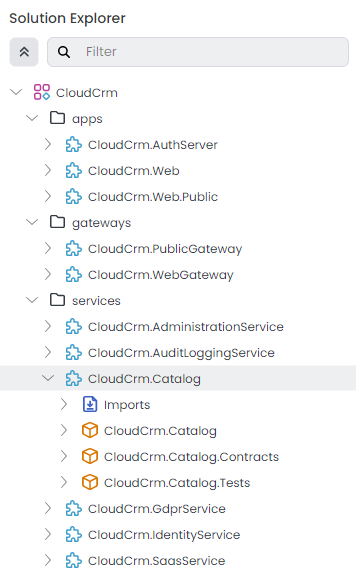
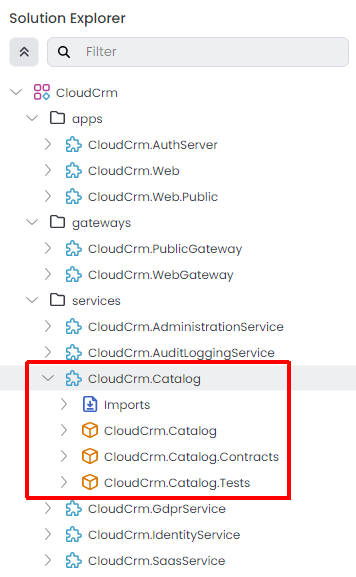
Completed the part 2

Changed region(s): [[0.0618, 0.6239, 0.8343, 0.8735]]

diff --git a/docs/en/tutorials/microservice/part-02.md b/docs/en/tutorials/microservice/part-02.md
@@ -16,7 +16,7 @@
 
 In this tutorial, you will create a new Catalog service and integrate it to the solution.
 
-## Creating the Service
+## Creating the Catalog Service
 
 Right-click the `services` folder in the *Solution Explorer* panel, select the *Add* -> *New Module* -> *Microservice* command:
 
@@ -48,16 +48,66 @@ ABP Studio intelligently selects the right values for you, but you should still 
 
 That's all, ABP Studio creates the new microservice and arranges all the integration and configuration for you.
 
-## Exploring the New Microservice
+## Exploring the New Catalog Microservice
 
-The new microservice is added under the `services` folder in the `CloudCrm` solution:
+In this section, we will investigate the new microservice in overall.
+
+### Understanding the Packages of The Service
+
+The new microservice is added under the `services` folder in the `CloudCrm` ABP Studio solution:
 
 ![abp-studio-new-catalog-service-in-solution-explorer](images/abp-studio-new-catalog-service-in-solution-explorer.png)
 
-The new microservice has its own separate .NET solution that includes three .NET projects:
+The new microservice has its own separate .NET solution that includes three packages (.NET projects):
 
 * `CloudCrm.Catalog` is the main project that you will implement your service. It typically contains your [entities](../../framework/architecture/domain-driven-design/entities.md), [repositories](../../framework/architecture/domain-driven-design/repositories.md), [application services](../../framework/architecture/domain-driven-design/application-services.md), API controllers, etc.
 * `CloudCrm.Catalog.Contracts` project can be shared with the other services and applications. It typically contains interfaces of your [application services](../../framework/architecture/domain-driven-design/application-services.md), [data transfer objects](../../framework/architecture/domain-driven-design/data-transfer-objects.md), and some other types you may want to share with the clients of this microservice.
 * `CloudCrm.Catalog.Tests` is for building your unit and integration tests for this microservice.
 
-f
+### Opening the Service in an IDE
+
+You can open the new microservice in your favorite IDE for development. As a shortcut, you can right-click it in ABP Studio, select the *Open with* -> *Visual Studio* command for example:
+
+![abp-studio-open-with-visual-studio](images/abp-studio-open-with-visual-studio.png)
+
+Here is the `CloudCrm.Catalog` .NET solution in Visual Studio:
+
+![visual-studio-solution-explorer-catalog-service](images/visual-studio-solution-explorer-catalog-service.png)
+
+### Running the New Service
+
+You can run the solution using ABP Studio's *Solution Runner*. It will also run the new Catalog service as a part of the solution.
+
+> Before running the solution, **ensure that all the applications are built**. If you are not sure, right-click the root item (`CloudCrm`) in the *Solution Explorer* panel and select the *Build* -> *Graph Build* command.
+
+Click the *Play* button near to the solution root:
+
+![abp-studio-solution-runner-play-all](D:\Github\abp\docs\en\tutorials\microservice\images\abp-studio-solution-runner-play-all.png)
+
+### Browsing the Catalog Service
+
+Once all of the applications has started, right-click the Catalog service and select the *Browse* command:
+
+![abp-studio-browse-catalog-service](images/abp-studio-browse-catalog-service.png)
+
+It will open the built-in browser and you will see the Swagger UI for the Catalog service:
+
+![abp-studio-browser-catalog-service-swagger-ui](images/abp-studio-browser-catalog-service-swagger-ui.png)
+
+### Opening the Catalog Database
+
+The new Catalog microservice has its own database. Assuming you've selected SQL Server as your DBMS, you can open the SQL Server Management Studio to see its database:
+
+![sql-server-management-studio-login-screen](images/sql-server-management-studio-login-screen.png)
+
+Use `localhost,1434` as the *Server name*, select the *SQL Server Authentication* as the *Authentication* type, use `sa` as the *Login* name and `myPassw@rd` as the *Password* value. You can find these values in the `appsettings.json` file in the `CloudCrm.Catalog` project of the .NET solution of the Catalog microservice.
+
+Once you click the *Connect* button, you can see all the databases and explore their data:
+
+![sql-server-management-studio-databases](images/sql-server-management-studio-databases.png)
+
+The Catalog service's database has only three initial table. The first one is for Entity Framework Core's migration system, and the others are for ABP's [distributed event bus](../../solution-templates/microservice/distributed-events.md) to properly apply transactional events using the outbox and inbox patterns.
+
+## Summary
+
+In this part of the Microservice Development Tutorial, we added a new Catalog microservice to the solution, explored its code structure and database, and browse its APIs using the Swagger UI. In the next part, we will create functionality in that new microservice.
